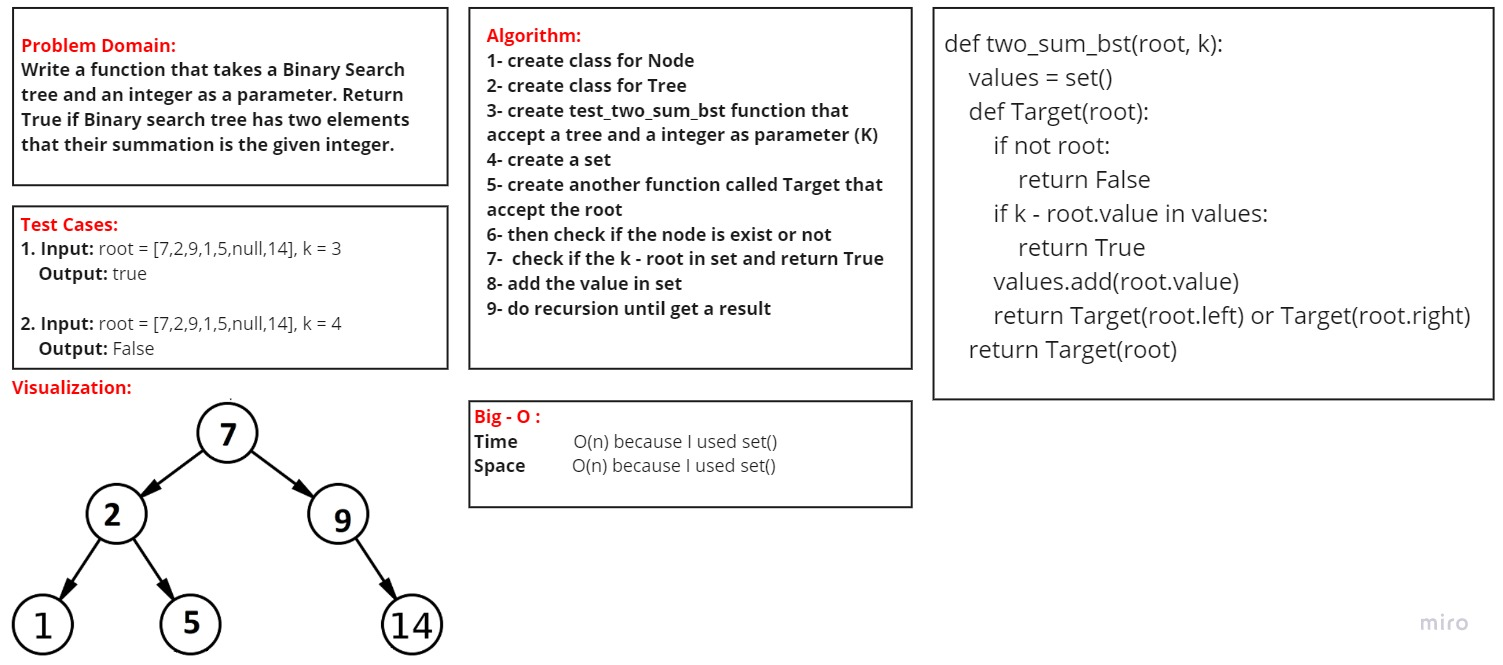
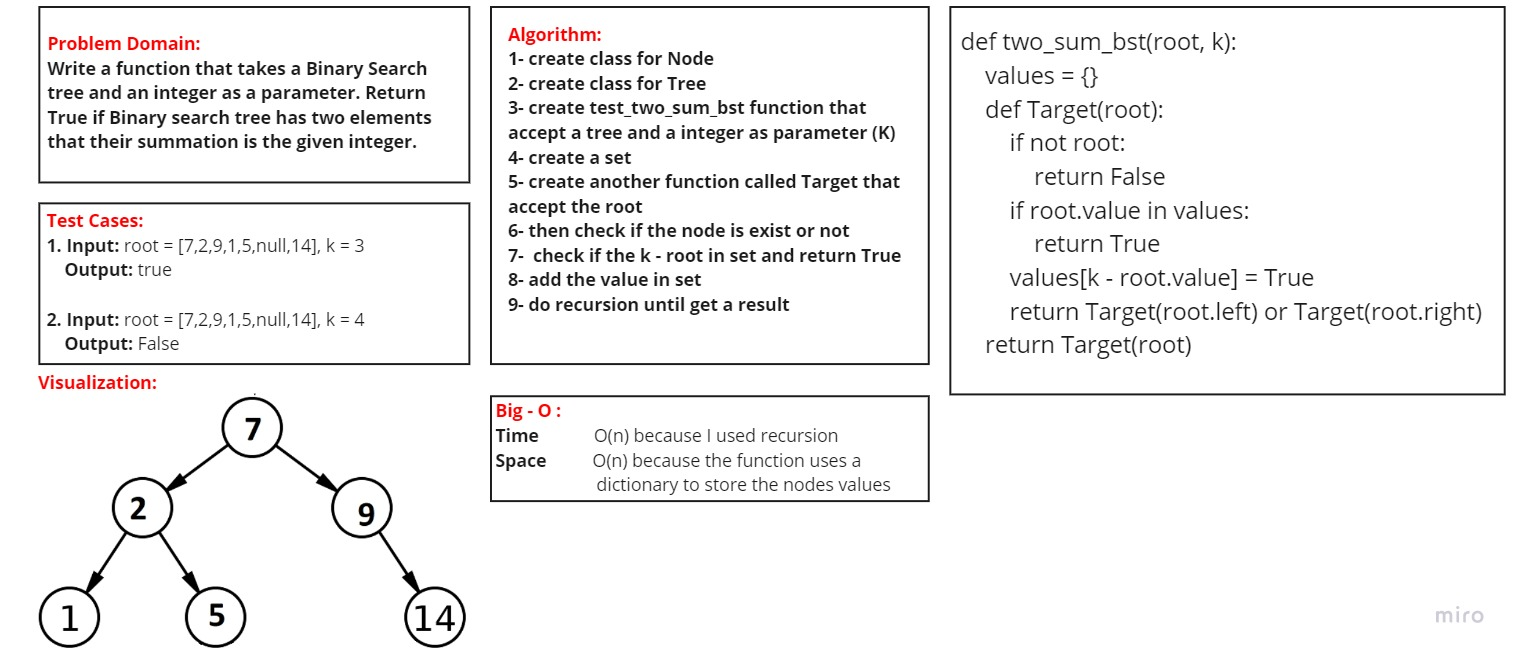
2 sum bst

Changed region(s): [[0.0, 0.0, 1.0, 0.7903], [0.0, 0.5775, 0.1836, 1.0], [0.1836, 0.6991, 0.3061, 1.0]]

diff --git a/python/code_challenges/hashtable/challenge01/challenge01.py b/python/code_challenges/hashtable/challenge01/challenge01.py
@@ -29,14 +29,13 @@ def two_sum_bst(root, k):
     # two_sum_bst is a function that takes a Binary Search tree and an integer as a parameter (k). 
     # and it return True if Binary search tree has two elements that their summation is the given integer.
    
-    values = set()
+    values = {}
     def Target(root):
         if not root:
             return False
-        if k - root.value in values:
+        if root.value in values:
             return True
-        values.add(root.value)
+        values[k - root.value] = True
         return Target(root.left) or Target(root.right)
     return Target(root)
-
 
